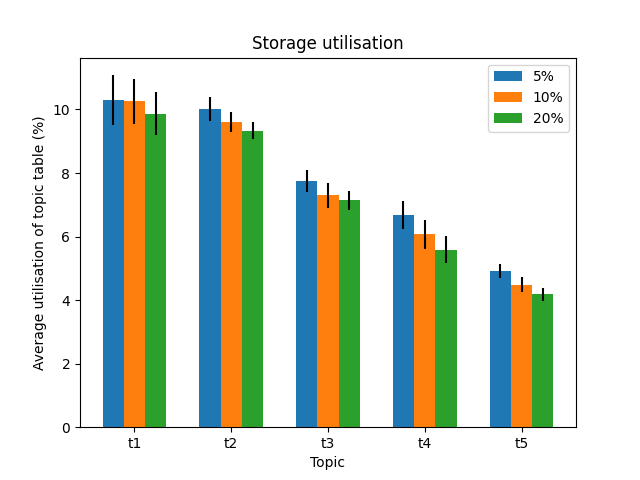
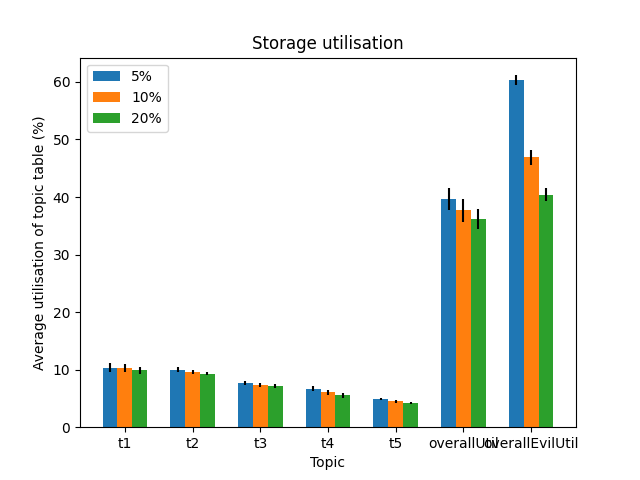
security figures update

diff --git a/service-discovery/python/analyze_sergi.py b/service-discovery/python/analyze_sergi.py
@@ -911,8 +911,8 @@ def analyzeStorageUtilisation(dirs,labels):
         for col_name in df.columns:
             if col_name=="time":
                 continue
-            if col_name.startswith("t"):
-                topics.append(col_name)
+            #if col_name.startswith("t"):
+            topics.append(col_name)
 
 
         for topic in topics:
@@ -1440,8 +1440,8 @@ print('Plots will be saved in ', OUTDIR);
 #labels = ['Bucket size 3','Bucket size 5','Bucket Size 10','Bucket size 16']
 #labels = ['5 Buckets','10 Buckets','17 Buckets','256 Buckets']
 #labels = ['No refresh','Refresh']
-#labels = ['5%','10%','20%']
-labels = ['1 IP','10 IP','50 IP']
+labels = ['5%','10%','20%']
+#labels = ['1 IP','10 IP','50 IP']
 
 analyzeRegistrations2(sys.argv[1:],labels)
 analyzeOperations(sys.argv[1:],labels)
